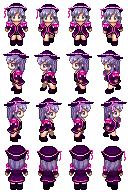
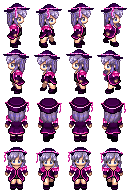
changed direction computation
git-svn-id: http://ridiculous-rpg.googlecode.com/svn/trunk@313 9d6b9411-3931-cc8d-638b-e64c526c23be

diff --git a/ridiculousRPG/src/com/ridiculousRPG/event/EventObject.java b/ridiculousRPG/src/com/ridiculousRPG/event/EventObject.java
@@ -478,27 +478,8 @@ public class EventObject extends Movable implements Comparable<EventObject>,
 	 * The touch bounds are used to compute the direction.
 	 */
 	public void lookAt(EventObject other) {
-		if (animation == null)
-			return;
-		float x, y;
-		if (getX() + getWidth() < other.getX()) { // East
-			x = 1;
-		} else if (getX() > other.getX() + other.getWidth()) { // West
-			x = -1;
-		} else { // unchanged
-			x = 0;
-		}
-		if (getY() + getHeight() < other.getY()) { // North
-			y = 1;
-		} else if (getY() > other.getY() + other.getHeight()) { // South
-			y = -1;
-		} else { // unchanged
-			if (x == 0)
-				return;
-			y = 0;
-		}
-		// set direction...
-		animation.animate(0, 0, Direction.fromMovement(x, y), 0);
+		if (animation != null && visible && other.visible)
+			animation.animate(other.getX() - getX(), other.getY() - getY(), 0f);
 	}
 
 	/**
@@ -649,7 +630,9 @@ public class EventObject extends Movable implements Comparable<EventObject>,
 	/**
 	 * The event will NOT automatically be animated by using this movement
 	 * method. You have to use one of the animate-methods if you want some
-	 * animation.
+	 * animation.<br>
+	 * 
+	 * @see #animate(float, float, float)
 	 */
 	@Override
 	public synchronized void offerMove(float x, float y) {
@@ -670,14 +653,13 @@ public class EventObject extends Movable implements Comparable<EventObject>,
 	}
 
 	/**
-	 * Uses TileAnimation.animate(int, Speed) to set the image for this event.<br>
+	 * Animates this event if an animation is applied to this event.
 	 * 
-	 * @see {@link TileAnimation#animate(int, Speed)}
+	 * @see {@link TileAnimation#animate(float, float, float)}
 	 */
 	public void animate(float x, float y, float deltaTime) {
 		if (animation != null) {
-			this.image = animation.animate(x, y, Direction.fromMovement(x, y),
-					deltaTime);
+			this.image = animation.animate(x, y, deltaTime);
 		}
 	}
 

diff --git a/ridiculousRPG/src/com/ridiculousRPG/util/Direction.java b/ridiculousRPG/src/com/ridiculousRPG/util/Direction.java
@@ -20,8 +20,8 @@ package com.ridiculousRPG.util;
  * @author Alexander Baumgartner
  */
 public enum Direction {
-	S(0, 0f, -1f), W(1, -1f, 0f), E(2, 1f, 0f), N(3, 0f, 1f), SW(4, -.7f, -.7f), NW(
-			5, -.7f, .7f), SE(6, .7f, -.7f), NE(7, .7f, .7f);
+	E(0, 1f, 0f), W(1, -1f, 0f), N(2, 0f, 1f), S(3, 0f, -1f), NE(4, .7f, .7f), SE(
+			5, .7f, -.7f), NW(6, -.7f, .7f), SW(7, -.7f, -.7f);
 
 	private float x, y;
 	private int directionIndex;
@@ -63,13 +63,50 @@ public enum Direction {
 	 * @return
 	 */
 	public static Direction fromMovement(float x, float y) {
-		if (x == 0) {
+		if (x == 0)
 			return y < 0 ? S : N;
-		} else if (y == 0) {
+		if (y == 0)
 			return x < 0 ? W : E;
-		} else if (x < 0) {
-			return y < 0 ? SW : NW;
+
+		float ratio = x / y - 1;
+		if (Math.abs(ratio) > .5) {
+			if (ratio < 0)
+				return y < 0 ? S : N;
+			return x < 0 ? W : E;
 		}
+
+		if (x < 0)
+			return y < 0 ? SW : NW;
 		return y < 0 ? SE : NE;
+	}
+
+	/**
+	 * Computes the direction from the given (x,y) - movement
+	 * 
+	 * @param x
+	 * @param y
+	 * @param maxDirections
+	 *            Maximum number of directions to use.<br>
+	 *            maxDirections < 4 crops to W-E movement.
+	 * @return
+	 */
+	public static Direction fromMovement(float x, float y, int maxDirections) {
+		if (maxDirections >= 8)
+			return fromMovement(x, y);
+
+		if (maxDirections >= 4)
+			if (Math.abs(y) > Math.abs(x))
+				return y < 0 ? S : N;
+			else
+				return x < 0 ? W : E;
+
+		if (maxDirections >= 2)
+			return x < 0 ? W : E;
+
+		return E;
+	}
+
+	public int getDirectionIndex() {
+		return directionIndex;
 	}
 }

diff --git a/ridiculousRPG/src/com/ridiculousRPG/animation/TileAnimation.java b/ridiculousRPG/src/com/ridiculousRPG/animation/TileAnimation.java
@@ -360,7 +360,23 @@ public class TileAnimation implements Disposable, Serializable {
 	 * 
 	 * @param x
 	 * @param y
+	 * @param deltaTime
+	 */
+	public TextureRegion animate(float x, float y, float deltaTime) {
+		return animate(x, y, Direction
+				.fromMovement(x, y, animationTiles.length), deltaTime);
+	}
+
+	/**
+	 * Computes the animation and returns the actual tile (as TextureRegion) to
+	 * display.<br>
+	 * The animation speed is computed by the distance given as relative x,y -
+	 * position.
+	 * 
+	 * @param x
+	 * @param y
 	 * @param dir
+	 * @param deltaTime
 	 */
 	public TextureRegion animate(float x, float y, Direction dir,
 			float deltaTime) {
@@ -377,8 +393,7 @@ public class TileAnimation implements Disposable, Serializable {
 		} else {
 			pixelPerSecond = animationSpeed.getPixelPerSecond();
 		}
-		return animate(pixelPerSecond, dir.getIndex(animationTiles.length),
-				deltaTime);
+		return animate(pixelPerSecond, dir.getDirectionIndex(), deltaTime);
 	}
 
 	/**
@@ -425,7 +440,7 @@ public class TileAnimation implements Disposable, Serializable {
 			int animationTextureRow, float deltaTime) {
 		if (deltaTime > 0) {
 			animationCycleFinished = false;
-			animationTimer += Math.sqrt(pixelPerSecond / 4f) * deltaTime;
+			animationTimer += Math.sqrt(pixelPerSecond * .25f) * deltaTime;
 			if (Float.isNaN(animationTimer)) {
 				animationTimer = 1.01f;
 			}
